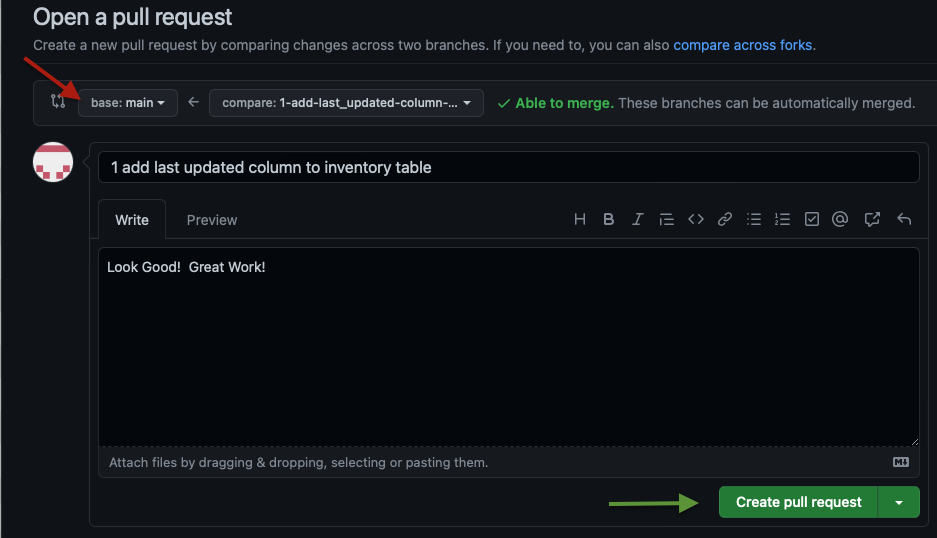
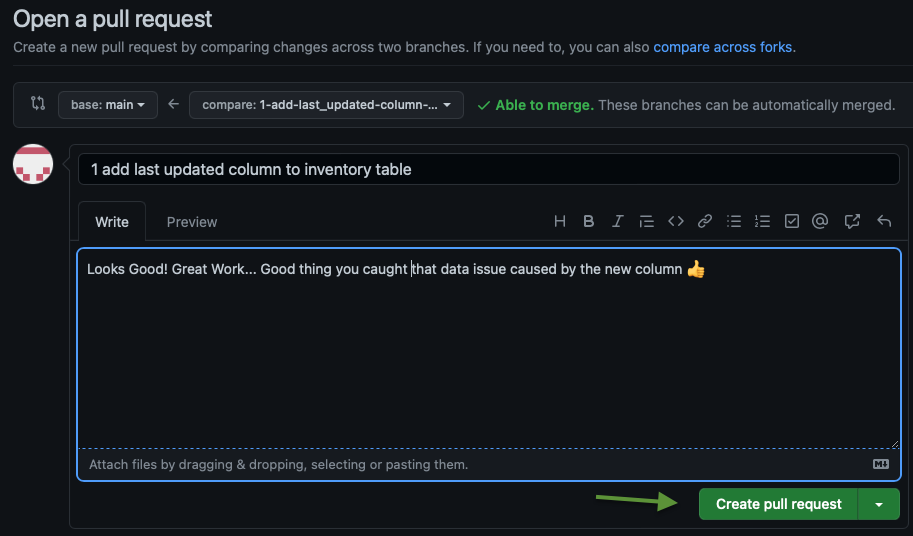
Doco Complete and Tested

diff --git a/workflow_demo/jenkins.md b/workflow_demo/jenkins.md
@@ -37,21 +37,21 @@ If the tear down and additional automated tests succeed, the "Pull Requests" is 
 1. Log into GitHub and click on the repository which has been integrated with Jenkins.
 2. Create a New Issue
     - If you do not see the Issue tab, click on "Settings" and scroll down to "Issues"; check the box.
-![Create Issue](images/step1-create-issue1.png)
+![Create Issue](images/step-1-create-issue1.png)
     - **Title:** Add LAST_UPDATED Column to Inventory Table
     - **Write:** Add a new column to the inventory table to track the last time the inventory was updated.
     - Submit Issue
-    ![Submit Issue](images/step1-create-issue2.png)
+    ![Submit Issue](images/step-1-create-issue2.png)  
 
 ### Step **2**: Hands-On - Issue is Assigned and Branch Created
 
 1. If not already on the New Issue, navigate to "Issues" and click on the issue you just created.
 2. Assign the issue to yourself and click on "Create a Branch"
-![Assign Issue](images/step1-create-issue3.png)
+![Assign Issue](images/step-1-create-issue3.png)
 3. On the Pop-Up: Leave Defaults and "Create Branch"  
-![Create Branch](images/step1-create-issue4.png)
-
-#### **Feature Build Pipeline**
+![Create Branch](images/step-1-create-issue4.png)  
+  
+#### **Feature Build Pipeline**  
 
 On the Jenkins Controller, a new build will have been initiated by the creation of the branch.  This build will create the isolated development environment to work on the issue in.
 
@@ -64,7 +64,7 @@ On the Jenkins Controller, a new build will have been initiated by the creation 
 4. Click Console Output
 ![Build](images/step-2-console-output.png)
 
-The Console Output will show that Liquibase created the schema `INVENTORY1`, created the `INVENTORY1.INVENTORY` table, and loaded static data into the table.
+The Console Output will show that Liquibase created the schema `INVENTORY1`, created the `INVENTORY1.INVENTORY` table, and loaded static data into the table.  
 
 ### Step **3**: Hands-On - Development Workflow
 
@@ -155,13 +155,51 @@ Total 5 (delta 3), reused 0 (delta 0), pack-reused 0
 remote: Resolving deltas: 100% (3/3), completed with 3 local objects.
 ```
 
+#### **Integration Testing** (Failure)
+
+The above push will cause another build on the "feature" branch in Jenkins to be triggered.  This build will test running the change you've made with existing, non-changed changeSets; i.e. integration testing.
+
+On the Jenkins Controller, Navigate to `Dashboard > Demonstration`.  You'll notice that the last build on the "feature" branch has failed:
+![failed-build](images/step-3-failed-build.png)
+
+1. Click on "1-add-last_updated-column-to-inventory-table"
+2. Click on "Last Build #2..."
+3. Click Console Output
+4. Read the output to determine the failure
+
+![failure](images/step-3-failure.png)
+
+The failure is due to the new column preventing the data from being loaded into the table via the data/inventory_table.sql file.  Fortunately this was caught before applying the change to the "main" branch used for Production deployment.  
+
+There are a few ways to fix this problem, but for demonstration purposes, edit the data/inventory_table.sql file, increase the changeset `insert_static:2`, and add "SYSDATE" to the insert statements:
+
+```sql
+-- liquibase formatted sql
+-- changeset insert_static:2 runAlways:true failOnError:true
+TRUNCATE TABLE INVENTORY;                
+INSERT into INVENTORY values ('sushi', '1468 WEBSTER ST,San Francisco,CA', 0, SYSDATE);
+INSERT into INVENTORY values ('pizza', '1469 WEBSTER ST,San Francisco,CA', 0, SYSDATE);
+INSERT into INVENTORY values ('burger', '1470 WEBSTER ST,San Francisco,CA', 0, SYSDATE);
+-- rollback TRUNCATE TABLE INVENTORY;
+```
+
+Commit/push the change to initiate another build:
+
+```bash
+$ git add .
+$ git commit -m "Fixed data loading issue after new column"
+$ git push
+```
+
+This will initiate another build on the "feature" branch.  The build will succeed and the change can now be reviewed and merged back into the "main" branch.
+
 ### Step **4**: Hands-On - Review and Merge
 
 Back in GitHub, a notification that your "feature" branch has had recent pushes with the option to "Compare & pull request"
 
 1. Click "Compare & pull request"
 ![Compare & pull request](images/step-4-compare-pull.png)
-2. The next screen will show the changes you made to the "feature" branch.  Notice the new column that was created in the `INVENTORY1.INVENTORY` table
+2. The next screen will show the changes you made to the "feature" branch.  Notice the changes to the data insert and the new column that was created in the `INVENTORY1.INVENTORY` table:
 ![Changes](images/step-4-change.png)
 3. Change the base branch to your repositories "main", and click "Create pull request"
 ![Create pull request](images/step-4-create-pr.png)
@@ -194,3 +232,12 @@ SELECT COUNT(*) FROM DBA_USERS WHERE USERNAME='INVENTORY1';
 #### **Main Branch Pipeline**
 
 On the Jenkins Controller, a new build will have been initiated by the Merge. This build will implement the change (new LAST_UPDATED column) in the "Production" INVENTORY schema.
+
+Once this build has completed you can verify the change was applied by running the following SQL query against the Autonomous Database in OCI:
+
+```sql
+SELECT * FROM INVENTORY.INVENTORY;
+```
+
+You should see the new column populated with the current date in the INVENTORY.INVENTORY table:
+![Complete](images/step-4-complete.png)
